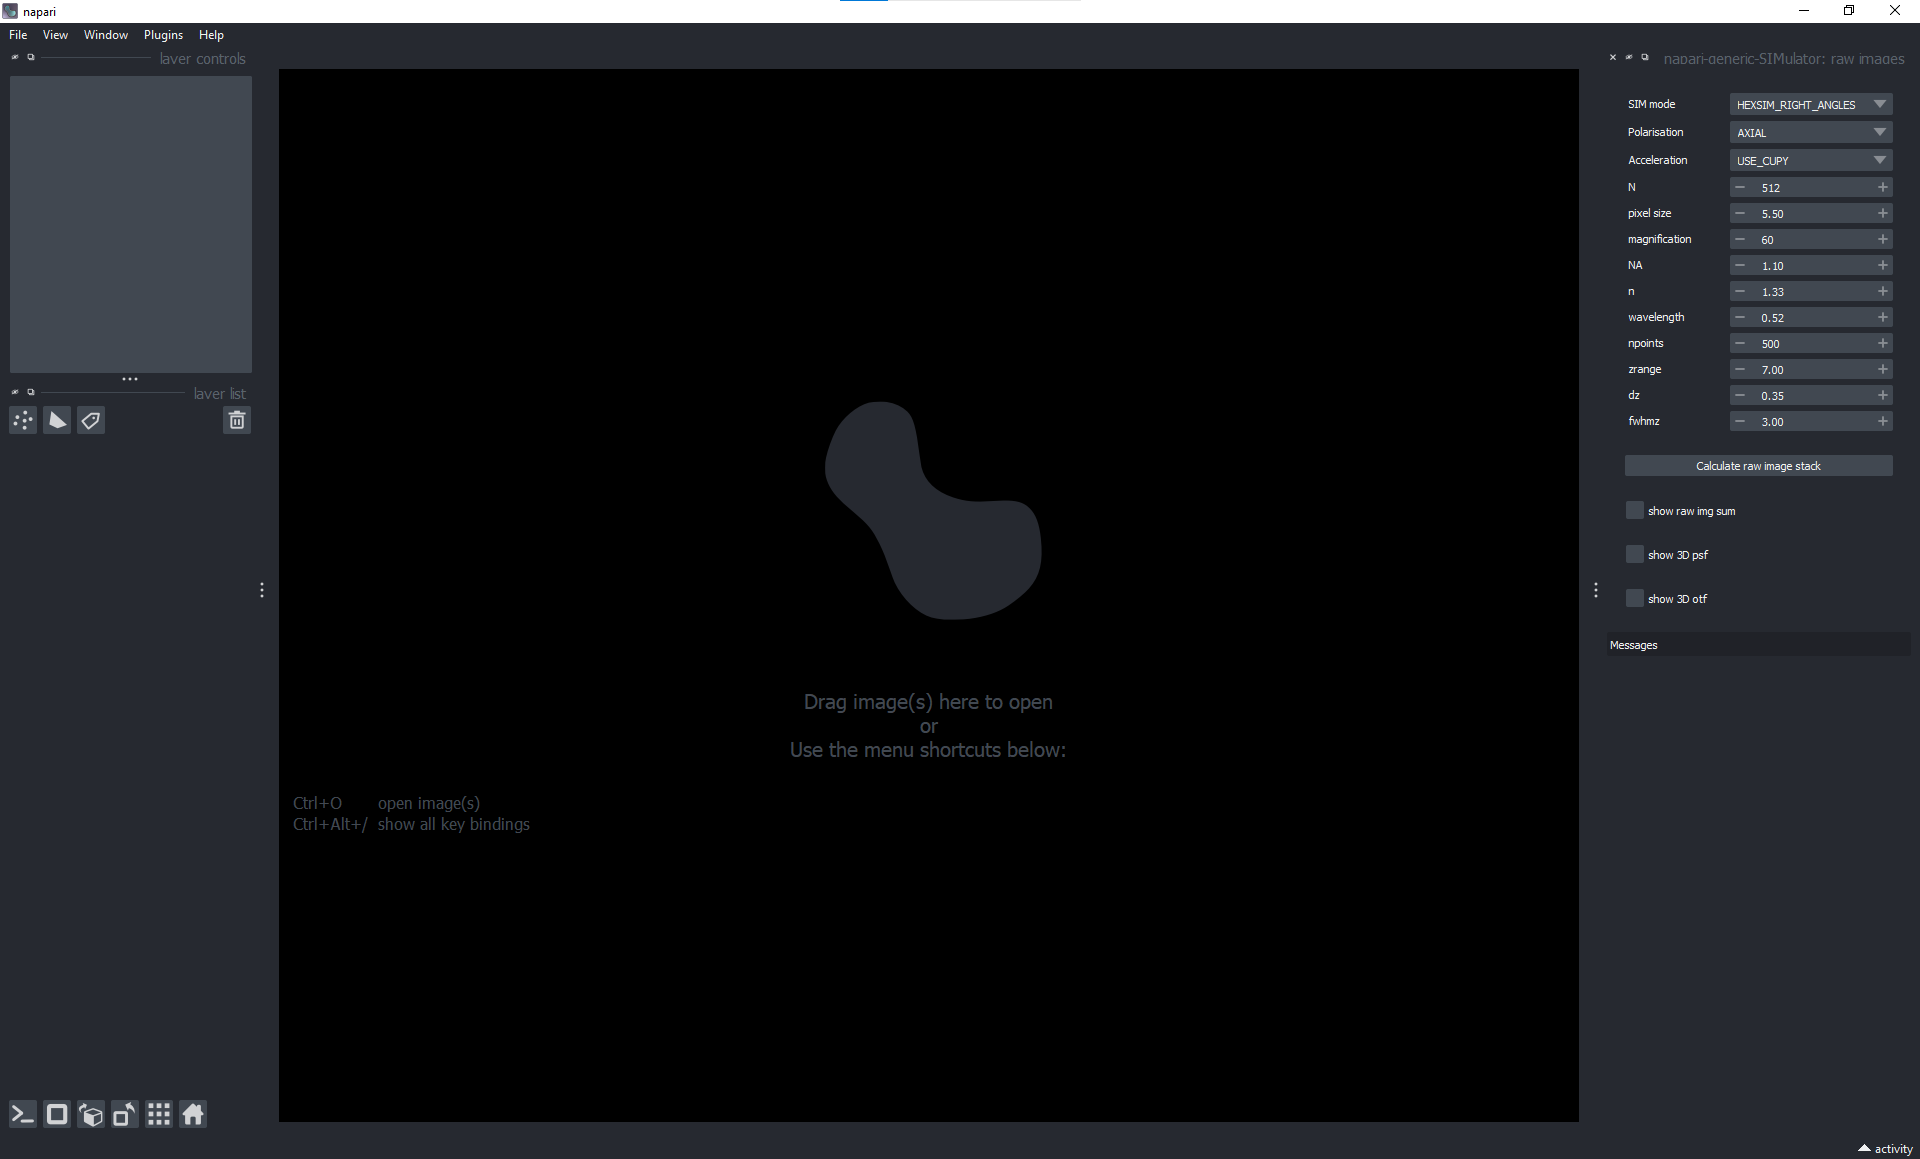
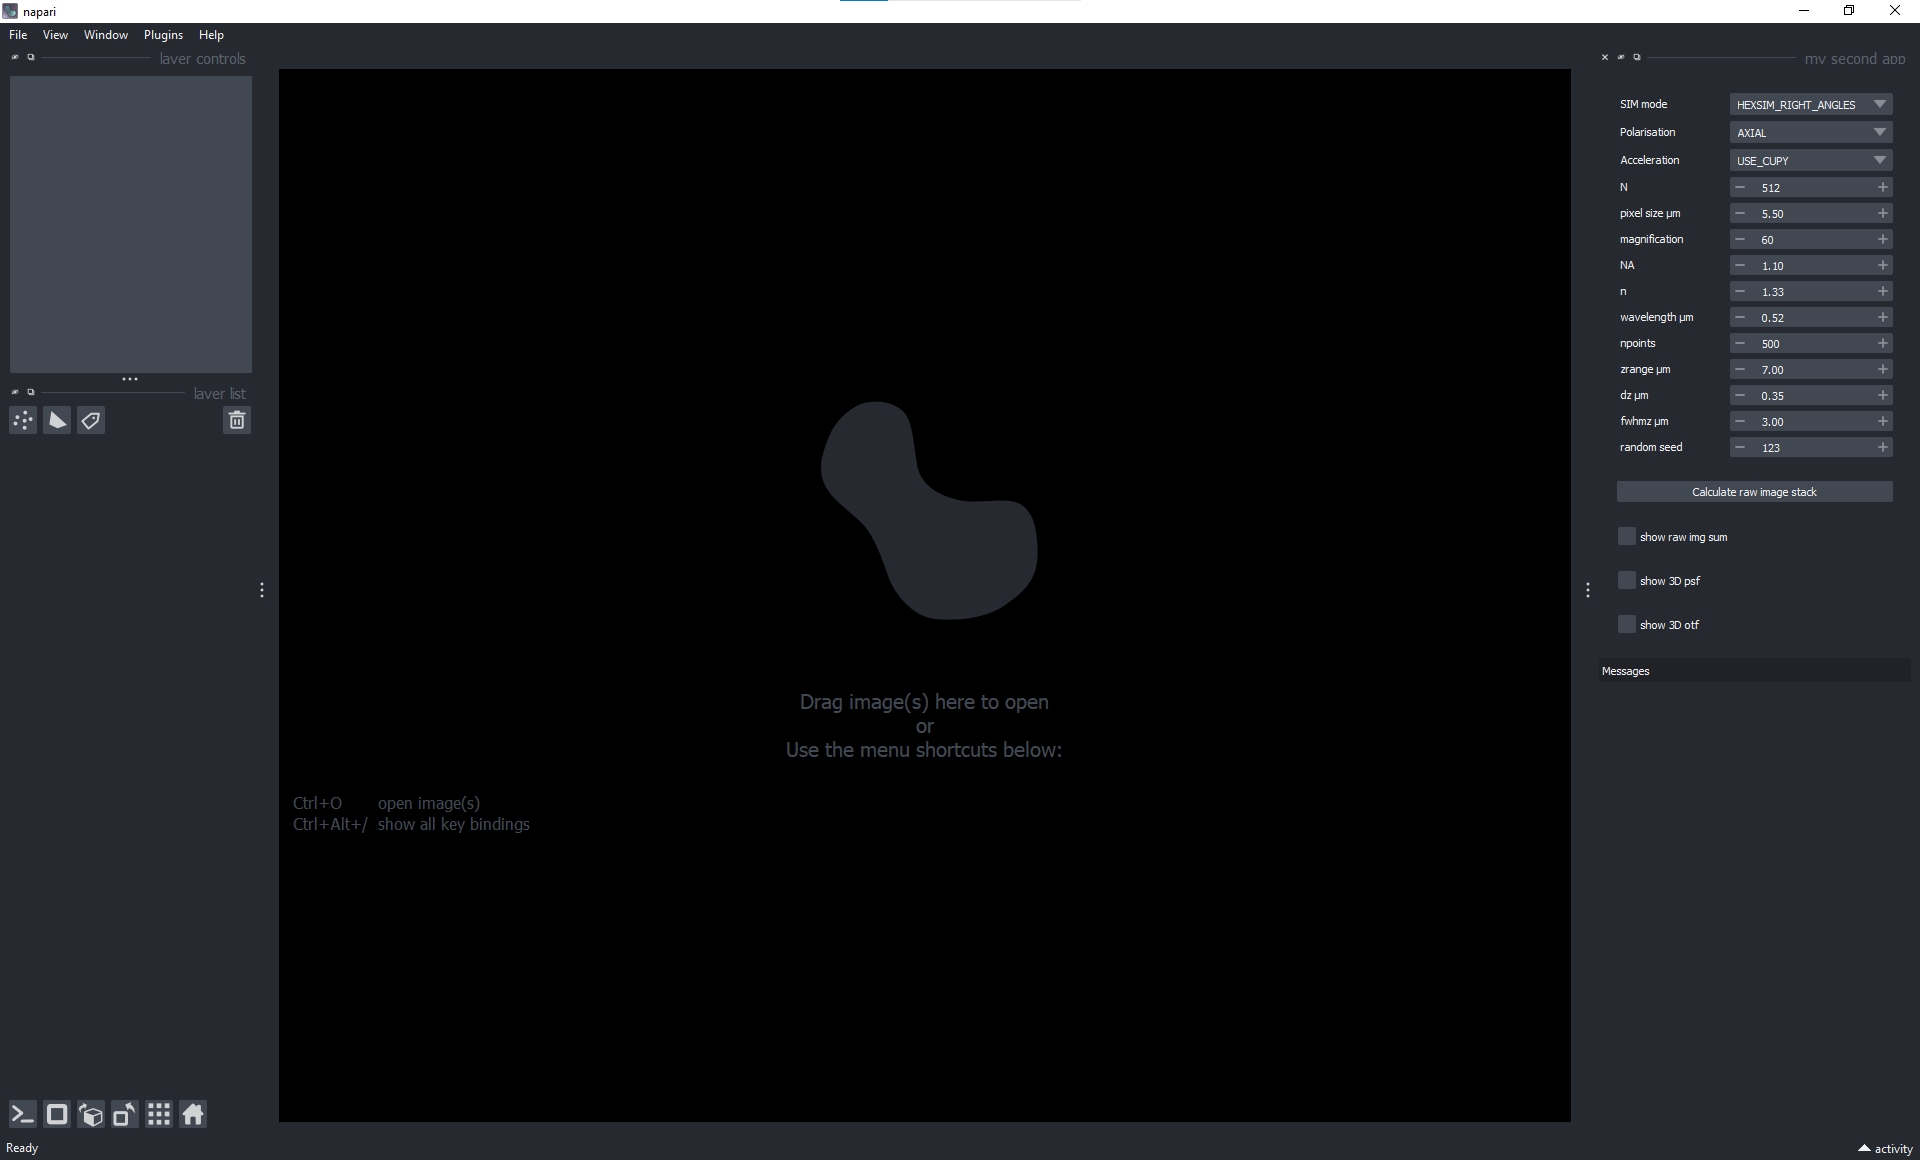
updated images for the document

diff --git a/src/napari_generic_simulator/_widget.py b/src/napari_generic_simulator/_widget.py
@@ -150,7 +150,7 @@ class SIMulator(QWidget):
             print(e)
         self.used_par_list = [self.SIM_mode, self.Polarisation, self.Acceleration, self.N, self.pixel_size,
                               self.magnification, self.NA, self.n, self.wavelength, self.npoints, self.zrange, self.dz,
-                              self.fwhmz]
+                              self.fwhmz, self.random_seed]
         return self
 
     def show_raw_img_sum(self, show_raw_img_sum: bool=False):

diff --git a/README.md b/README.md
@@ -53,11 +53,11 @@ To install latest development version :
     ![](images/img_1.png)
 
 
-4) Adjust the parameters in the widget and calculate the raw-image stack.
+3) Adjust the parameters in the widget and calculate the raw-image stack.
     ![](images/img_2.png)
 
 
-4) The sum, psf and otf can be showed. Note the all of these correspond the generated raw-image stack, so the raw images should be recalculated if the parameters change.
+4) The sum, psf and otf can be showed. Note the all of these correspond the generated raw-image stack, so keep the parameters the same before showing the sum (or psf and otf).
     ![](images/img_3.png)
 
 
